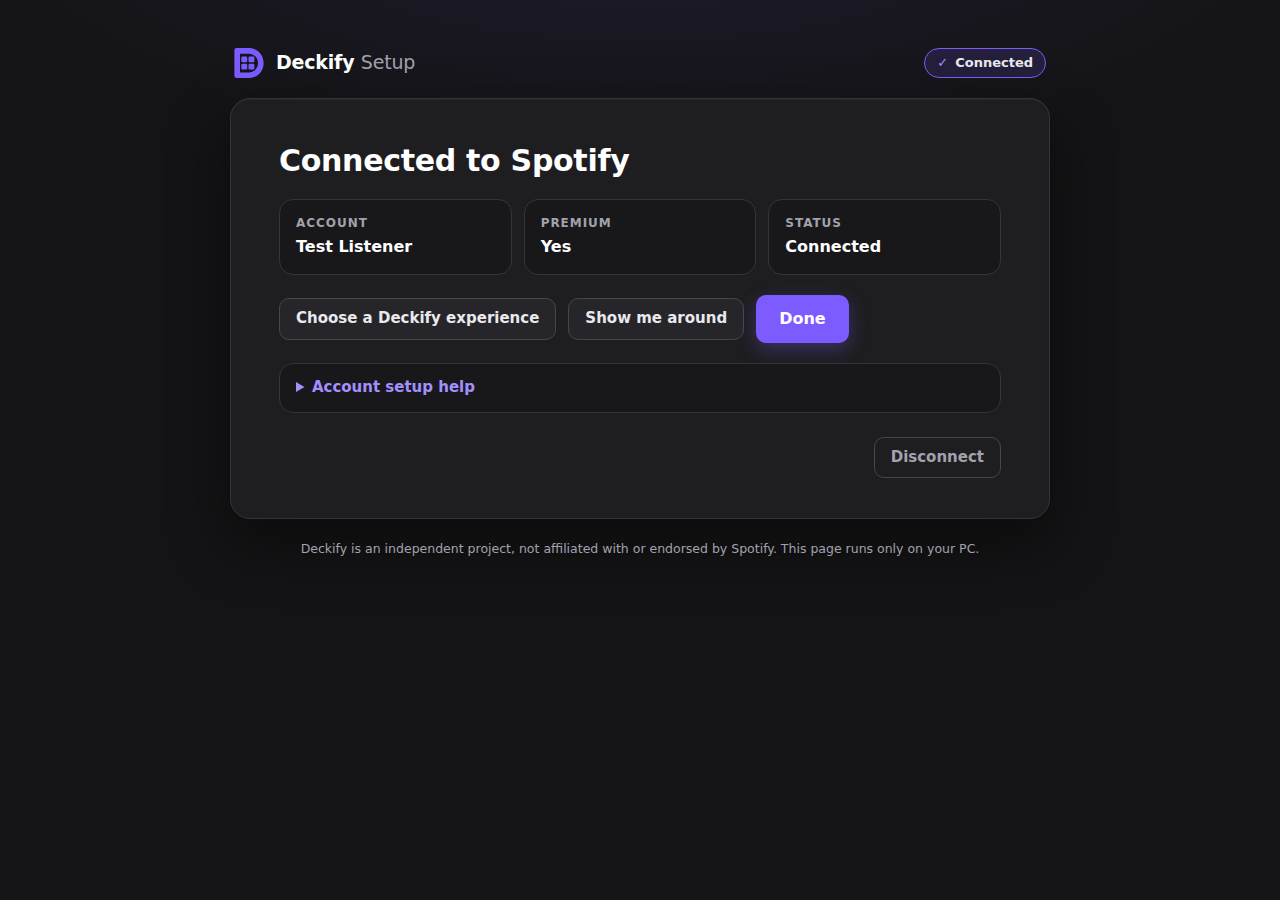
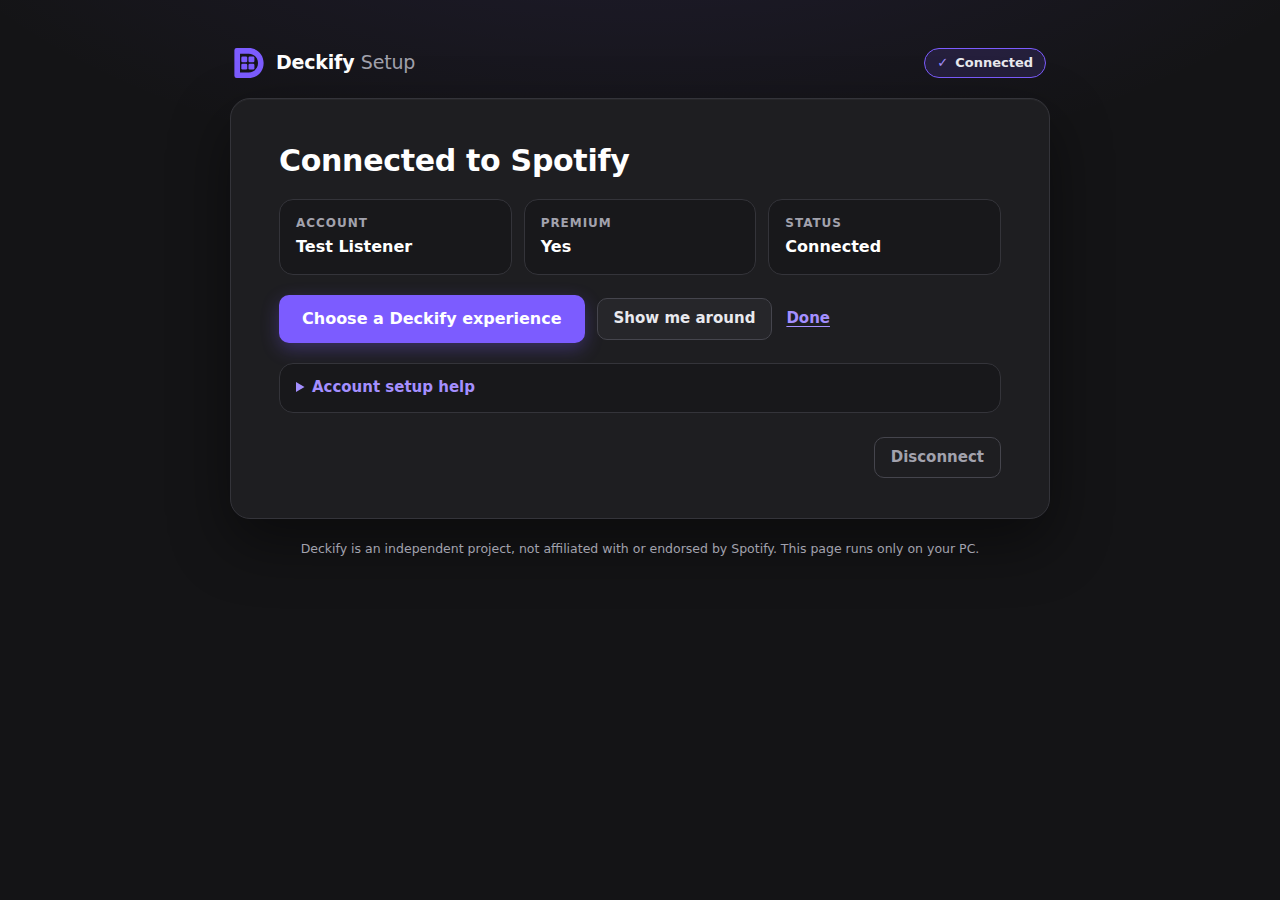
Make choosing an experience the primary action on the reopened connected screen
When Deckify Setup is reopened while connected, "Choose a Deckify experience" is now the primary violet button, "Show me around"
stays secondary, and Done becomes a low-emphasis text action (the same style as "Skip for now"). Done remains available, so choosing
an experience is suggested, not forced. No flow, route, state, profile or security change. The Setup App test now pins the
hierarchy, and the review render is updated.

Claude-Session: https://claude.ai/code/session_01TuEXyaCwMJwsa6XJyKfkga

Changed region(s): [[0.2188, 0.3111, 0.6875, 0.4044]]

diff --git a/test/setup-app.test.ts b/test/setup-app.test.ts
@@ -782,7 +782,14 @@ describe("connected", () => {
 		expect(app.buttons("tour-start")[0]?.classList.contains("primary")).toBe(false);
 		expect(app.buttons("tour-start")[0]?.textContent).toBe("Show me around");
 		// People who set up before can still pick an experience from here.
-		expect(app.buttons("experience-start").map((button) => [button.textContent, button.classList.contains("primary")])).toEqual([["Choose a Deckify experience", false]]);
+		// Hierarchy: choosing an experience is primary, the tour secondary, Done a low-emphasis text action that is still offered.
+		const emphasis = (button: HTMLButtonElement | undefined) => (button?.classList.contains("primary") ? "primary" : button?.classList.contains("link") ? "text" : "secondary");
+		const actions = [...app.view().querySelectorAll<HTMLButtonElement>(".actions button")].filter(app.shown).slice(0, 3);
+		expect(actions.map((button) => [button.textContent, emphasis(button)])).toEqual([
+			["Choose a Deckify experience", "primary"],
+			["Show me around", "secondary"],
+			["Done", "text"],
+		]);
 		expect(app.buttons("finish").map((button) => button.textContent)).toEqual(["Done"]);
 		expect(app.view().querySelector("details.help summary")?.textContent).toBe("Account setup help");
 

diff --git a/com.marting.deckify.sdPlugin/ui/setup/setup.js b/com.marting.deckify.sdPlugin/ui/setup/setup.js
@@ -495,14 +495,11 @@
 		}
 		el.successBadge.hidden = !success;
 		el.successText.hidden = !success;
-		// Right after connecting, choosing an experience is the suggested next step (the tour stays optional); later, Done is.
+		// Choosing an experience is always the suggested next step (primary); the tour stays optional (secondary). Reopened later, Done is
+		// offered as a low-emphasis text action, so setup can still be left without choosing.
 		el.experienceStart.textContent = success ? "Choose my Deckify experience" : "Choose a Deckify experience";
-		el.experienceStart.classList.toggle("primary", success);
-		el.experienceStart.classList.toggle("large", success);
 		el.tourStart.textContent = success ? "Show me around first" : "Show me around";
 		el.accountDone.hidden = success;
-		el.accountDone.classList.toggle("primary", !success);
-		el.accountDone.classList.toggle("large", !success);
 
 		el.accountName.textContent = state.displayName || "Spotify account";
 		const product = state.product;

diff --git a/com.marting.deckify.sdPlugin/ui/setup/index.html b/com.marting.deckify.sdPlugin/ui/setup/index.html
@@ -219,7 +219,7 @@
 						<div class="actions">
 							<button type="button" id="experience-start" class="primary large" data-action="experience-start">Choose my Deckify experience</button>
 							<button type="button" id="tour-start" data-action="tour-start">Show me around first</button>
-							<button type="button" id="account-done" data-action="finish" hidden>Done</button>
+							<button type="button" id="account-done" class="link" data-action="finish" hidden>Done</button>
 						</div>
 						<details class="help" id="account-help">
 							<summary>Account setup help</summary>
